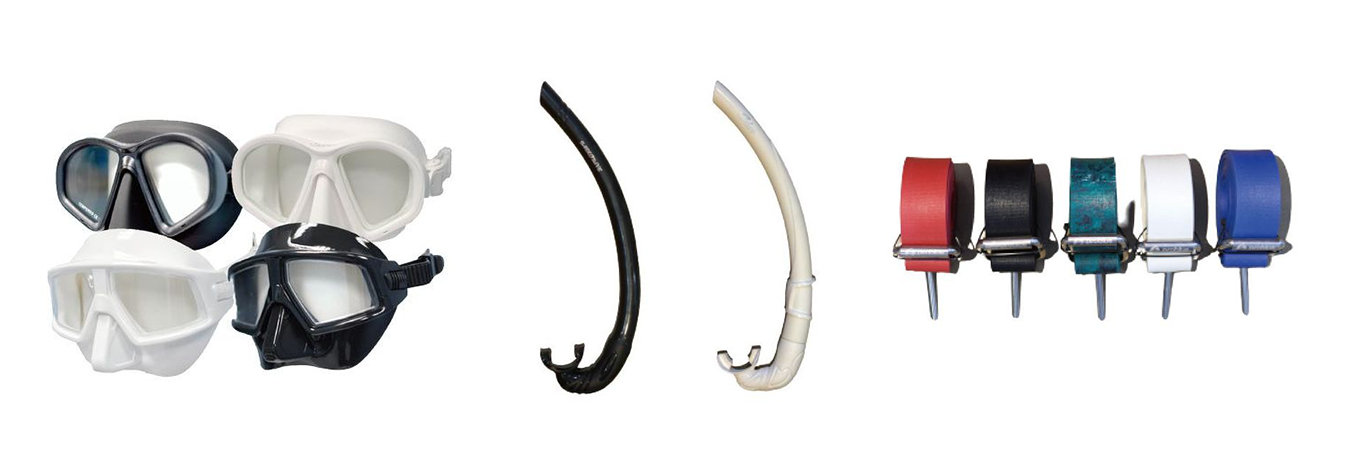
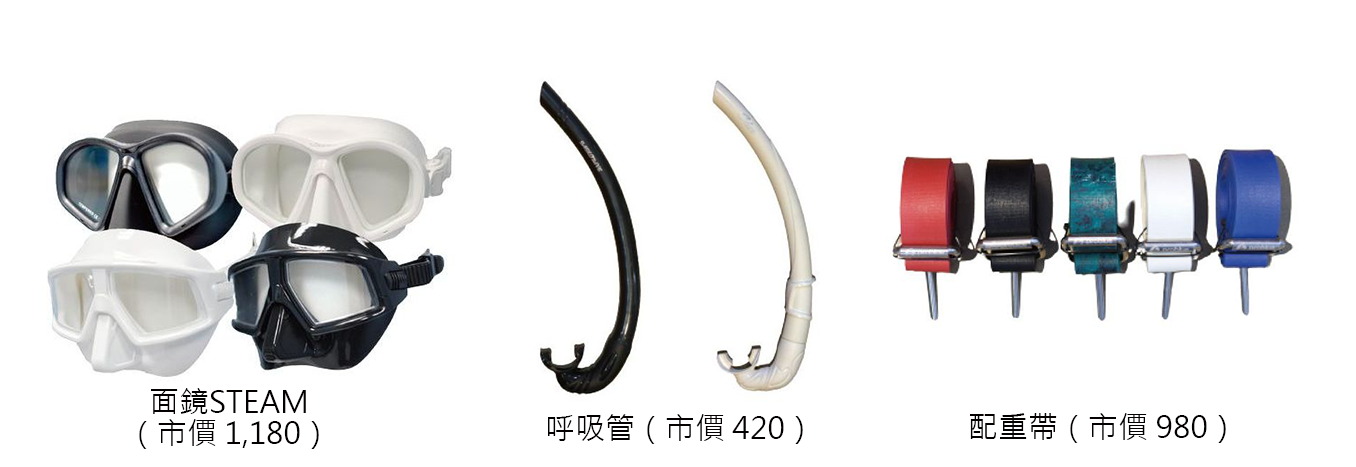
修改自潛LV1冬季班贈品圖片

Changed region(s): [[0.0929, 0.8094, 0.2478, 0.9593], [0.7124, 0.8694, 0.8982, 0.9593], [0.4027, 0.8694, 0.5885, 0.9593]]

diff --git a/src/app/pages/cfd110/cfd110.component.html b/src/app/pages/cfd110/cfd110.component.html
@@ -413,17 +413,6 @@
                                         </td>
                                     </tr>
                                     <tr>
-                                        <td class="fs-5">
-                                            <a>面鏡 STEAM（市價 1,180）</a>
-                                        </td>
-                                        <td class="fs-5">
-                                            <a>呼吸管（市價 420）</a>
-                                        </td>
-                                        <td class="fs-5">
-                                            <a>配重帶（市價 980）</a>
-                                        </td>
-                                    </tr>
-                                    <tr>
                                         <td class="fs-5" colspan="3">
                                             <ul>
                                                 <li>「本店OWD學生」報名1級自潛員可享 1,000 元折扣</li>
